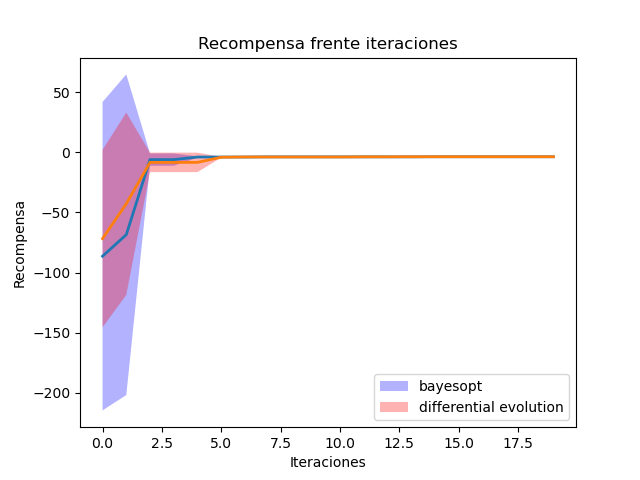
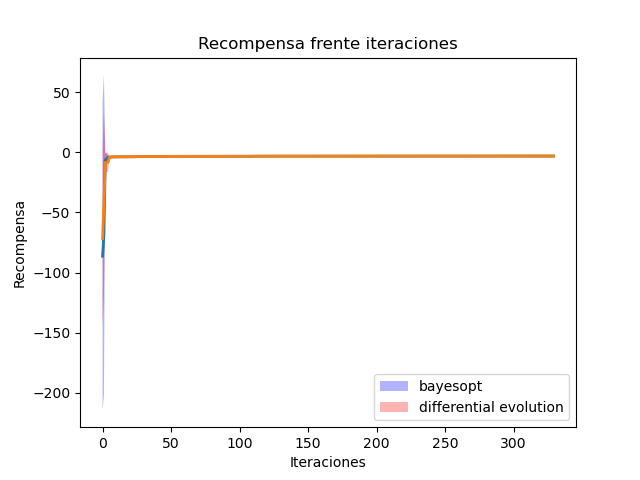
Grafica para evitacion de un obstaculo en cartesianas.

diff --git a/print_graph.py b/print_graph.py
@@ -5,7 +5,7 @@ import scipy.stats as sp
 
 TASK_DIR = "avoid_obstacle/"
 TASK_NAME = "avoid_obstacle"
-VARIATION = "esfericas"
+VARIATION = "cartesianas"
 
 file1 = TASK_DIR + "listas_bayesopt_" + TASK_NAME + "_" + VARIATION + ".p"
 resultados1 = pickle.load(open(file1, "rb"))
@@ -42,10 +42,10 @@ for resultado in lista_de_resultados:
     n, it = range(res.shape[0]), range(res.shape[1])
     t_limits = sp.t.interval(0.95, n_experimentos) / np.sqrt(n_experimentos)
 
-    res = res[11:350]
-    res_mean = res_mean[11:350]
-    res_std = res_std[11:350]
-    it = it[11:350]
+    # res = res[0:300]
+    # res_mean = res_mean[0:300]
+    # res_std = res_std[0:300]
+    # it = it[0:300]
 
     plt.plot(it, res_mean, linewidth=2, label=None)
     plt.fill(np.concatenate([it, it[::-1]]),
@@ -58,5 +58,5 @@ plt.ylabel(ylabel='Recompensa')
 plt.xlabel(xlabel='Iteraciones')
 plt.title(label='Recompensa frente iteraciones')
 plt.legend(loc='lower right')
-plt.savefig(TASK_DIR + "it_reward_" + TASK_NAME + "_" + VARIATION + "_zoom.png")
+plt.savefig(TASK_DIR + "it_reward_" + TASK_NAME + "_" + VARIATION + ".png")
 plt.show()
